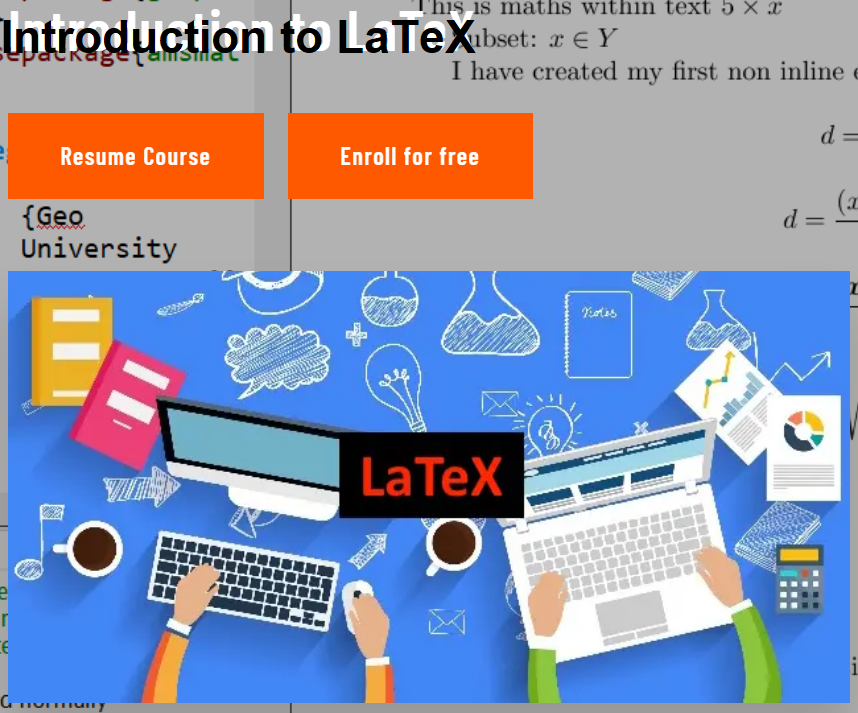
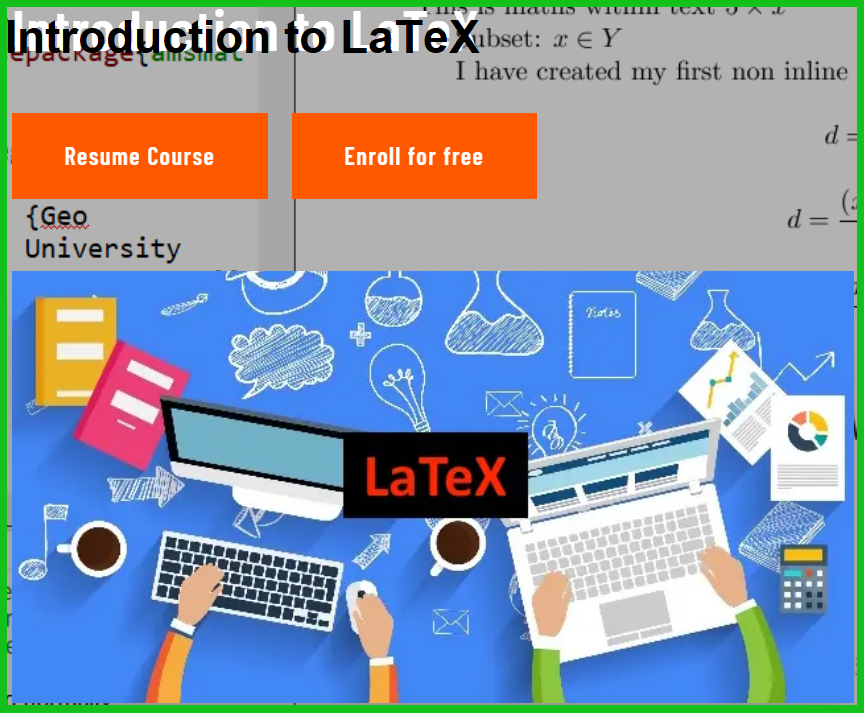
website updated!

diff --git a/puplications.html b/puplications.html
@@ -40,8 +40,35 @@
 
                 <div class="row">
 					<header class="major special">
-						<h1>Publications</h1>
+						<h1>Selected Publications</h1>
 					</header>
+
+                     <div class="row">
+                        <div class="1u 2u(small) 12u$(xsmall)">
+                        <h3>2022</h3>    
+                        </div>
+                        <div class="11u$ 10u(small) 12u$(xsmall)">
+                            <ul style="list-style-type:square">
+                               <li><b><strong><a href="https://www.mdpi.com/2072-4292/14/4/1010"> TIME-SERIES ANALYSIS OF LANDSAT DATA FOR INVESTIGATING THE RELATIONSHIP BETWEEN LAND SURFACE TEMPERATURE AND FOREST CHANGES IN PAPHOS FOREST, CYPRUS</a></strong></b>
+                                <p>V. Andronis, V. Karathanassi, V. Tsalapati, P. Kolokoussis, M. Miltiadou, C. Danezis<i> Remote Sensing</i></p>
+                                </li>
+                            </ul>
+                        </div>
+                    </div>
+
+                     <div class="row">
+                        <div class="1u 2u(small) 12u$(xsmall)">
+                        <h3></h3>    
+                        </div>
+                        <div class="11u$ 10u(small) 12u$(xsmall)">
+                            <ul style="list-style-type:square">
+                               <li><b><strong> A SELECTION OF EXPERIMENTS FOR UNDERSTANDING THE STRENGTHS OF TIME-SERIES SAR DATA ANALYSIS FOR FINDING THE DRIVES CAUSING PHENOLOGICAL CHANGES IN PAPHOS FOREST, CYPRUS (under review)</a></strong></b>
+                                <p>M. Miltiadou, V. Karathanassi, A. Agapiou, C. Theocharidis, P. Kolokousis, C. Danezis <i> Remote Sensing</i></p>
+                                </li>
+                            </ul>
+                        </div>
+                    </div>
+
 
                     <div class="row">
                         <div class="1u 2u(small) 12u$(xsmall)">
@@ -56,6 +83,8 @@
                         </div>
                     </div>
 
+              
+
                     <div class="row">
                         <div class="1u 2u(small) 12u$(xsmall)">
                         <h3></h3>    
@@ -69,6 +98,20 @@
                         </div>
                     </div>
 
+ 			
+
+                   	<div class="row">
+                        <div class="1u 2u(small) 12u$(xsmall)">
+                        <h3></h3>    
+                        </div>
+                        <div class="11u$ 10u(small) 12u$(xsmall)">
+					       <ul style="list-style-type:square">
+                               <li><b><strong><a href="http://dx.doi.org/10.34726/wim.1962"> UNDERSTANDING PHENOLOGICAL CHANGES OF CONIFEROUS FORESTS IN CYPRUS USING TIME-SERIES OF SAR DATA FROM 2015 TILL 2020</a></strong></b>
+                                <p> M. Miltiadou, C. Theocharidis, V. Karathanassi, A. Agapiou, M. Nikolaidis, C. Danezis </i></p>
+                               </li>
+                            </ul>
+                        </div>
+                    </div>
                   
 
  
@@ -204,18 +247,7 @@
                             </ul>
                         </div>
                     </div>
-                    <div class="row">
-                        <div class="1u 2u(small) 12u$(xsmall)">
-                        <h3>2014</h3>    
-                        </div>
-                        <div class="11u$ 10u(small) 12u$(xsmall)">
-                           <ul style="list-style-type:square">
-                               <li><b><strong><a href="https://www.researchgate.net/publication/277622377_Reconstruction_of_a_3D_Polygon_Representation_from_full-waveform_LiDAR_data">RECONSTRUCTION OF A 3D POLYGON REPRESENTATION FROM FULL-WAVEFROM LIDAR DATA</a></strong></b>
-                                <p>M. Miltiadou , M. Grant, M. Brown, M. Warren, E. Carolan, <i> Proceeding of the RSPSoc Annual Conference 2014, "New Sensors for a Changing World"</i></p>
-                                </li>
-                            </ul>
-                        </div>
-                    </div>
+                    
                     <br>
                     <a href="#" class="image fit"><img src="images/DASOS.jpg" alt="" /></a>
 				</div>

diff --git a/Projects.html b/Projects.html
@@ -53,7 +53,7 @@
                              <p> Climate change alters our environment by shifting weather conditions, rising sea levels, increases flood risks and threatens food production. This results into increased stress to our society, economy and environment (United-Nations). Shoukri and Zachariadis, 2012, stressed that Mediterranean Europe is expected to experience the most adverse climate change effects compared to other EU regions. According to MODIS data, the Land Surface Temperature (LST) of Cyprus has been increased from 2011 to 2017. Further, Cleland et al, 2017 showed that climate change confers shifts to plants blooming time. The question is: does LST relates to forest decline and does blooming timing of Cypriot forests have been altered over the years due to climate change? The overarching aim of this project is to research the impact of LST on Cypriot forests by anaysing time-series of SAR and thermal data. Impacts may include forest decline that does not relate to fire events, decreased forest density (e.g. biomass and leaf area index) and alternations to timing of forest blooming initiation, duration and termination. This project also analyses the understanding of the public sector about climate change and forest threats using questionnaires and relates the statistical results of the questionnaires to the output of the research. The results of the project could be used as scientific evidence for promoting environmentally friendly policies aiming to mitigate the effects of climate change, preserve a healthy ecosystem and consequently maintain social stability and stimulate economic growth. </p> 
                         </div>
                         <div class="4u$ 12u$(xsmall)">
-                            <a class="image fit"><img src="images/ASTARTE.png" alt="" /></a>  
+                            <a class="image fit"><img src="images/ASTARTE.jpg" alt="" /></a>  
                         </div>
                      </div>               
 				  </div>
@@ -70,7 +70,7 @@
                              <p>The “FOREST” action is an individual fellowship for Dr Milto Miltiadou that aims to advance algorithms using emerging technologies related to full-waveform LiDAR, while assisting a young researcher to further improve her intellectual, transferable and scientific skills related to earth observation and environmental sciences, as well as give direct experience in participating in proposals. This action explores analysis and data understanding of full-waveform LiDAR, as well as fusion with other Earth Observation data for forestry applications. It advances and evaluates algorithms, which will be added to DASOS for reaching end users and stakeholders. This action further disseminates the results for raising awareness about the new algorithms and tools, increasing this way the usage of full-waveform LiDAR in remote forest surveying. It also makes link with the industry by exchanging knowledge between partners. </p> 
                         </div>
                         <div class="4u$ 12u$(xsmall)">
-                            <a class="image fit"><img src="images/FOREST.png" alt="" /></a>  
+                            <a class="image fit"><img src="images/FOREST.jpg" alt="" /></a>  
                         </div>
                      </div>               
 				  

diff --git a/Learning.html b/Learning.html
@@ -56,7 +56,7 @@ This is the first course on LaTex and it will equip you with the appropriate ski
 Upon completion of the course, you will be able to download the source code of the document created. </p> 
                         </div>
                         <div class="4u$ 12u$(xsmall)">
-                            <a class="image fit"><img src="images/LaTeXcourse_1.png" alt="" /></a>  
+                            <a class="image fit"><img src="images/LaTeXcourse_1.jpg" alt="" /></a>  
                         </div>
                      </div>               
 				  </div>
